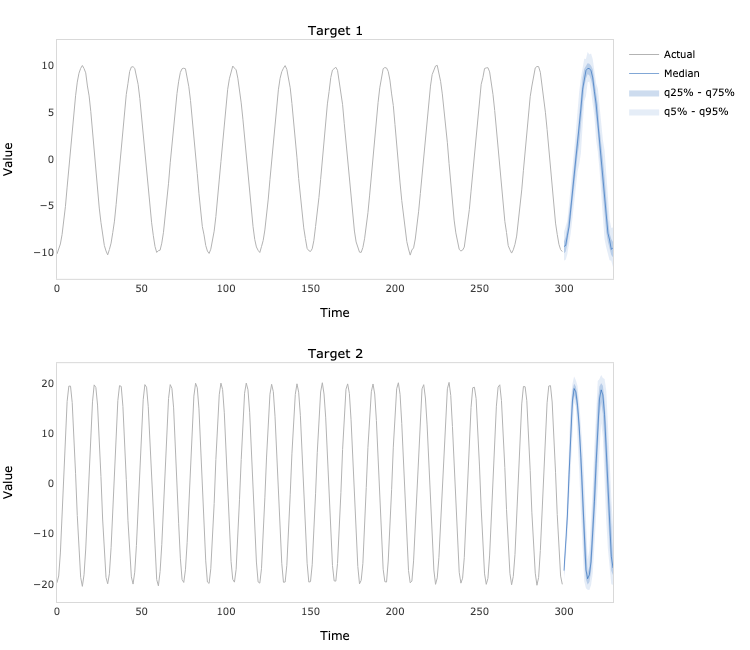
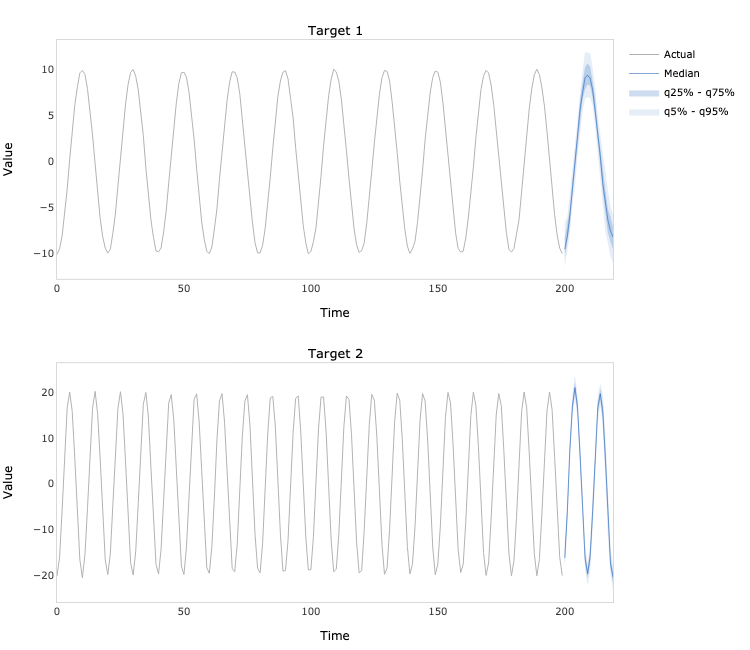
reorganize code

diff --git a/example/example.py b/example/example.py
@@ -2,7 +2,7 @@ import numpy as np
 from probcast_tensorflow.model import ProbCast
 
 # Generate two time series
-N = 300
+N = 200
 t = np.linspace(0, 1, N)
 e = np.random.multivariate_normal(mean=np.zeros(2), cov=np.eye(2), size=N)
 a = 10 * np.cos(2 * np.pi * (10 * t - 0.5)) + 0.1 * e[:, 0]
@@ -12,26 +12,26 @@ y = np.hstack([a.reshape(- 1, 1), b.reshape(- 1, 1)])
 # Fit the model
 model = ProbCast(
     y=y,
-    forecast_length=30,
-    sequence_length=60,
+    forecast_length=20,
+    sequence_length=40,
     quantiles=[0.05, 0.25, 0.5, 0.75, 0.95],
-    generator_gru_units=[64, 32],
-    discriminator_gru_units=[64, 32],
-    generator_dense_units=16,
-    discriminator_dense_units=16,
+    generator_gru_units=[32, 16],
+    discriminator_gru_units=[32, 16],
+    generator_dense_units=8,
+    discriminator_dense_units=8,
     noise_dimension=100,
     noise_dispersion=10,
 )
 
 model.fit(
-    learning_rate=0.01,
-    batch_size=64,
+    learning_rate=0.001,
+    batch_size=32,
     epochs=100,
     verbose=True
 )
 
 # Plot the in-sample predictions
-predictions = model.predict(index=270)
+predictions = model.predict(index=180)
 fig = model.plot_predictions()
 fig.write_image('predictions.png', width=750, height=650)
 

diff --git a/probcast_tensorflow/losses.py b/probcast_tensorflow/losses.py
@@ -8,7 +8,7 @@ def generator_loss(targets, predictions, prob_predictions):
     L1 = tf.keras.losses.MeanAbsoluteError()
     L2 = tf.keras.losses.BinaryCrossentropy()
     
-    return 0.99 * L1(y_true=targets, y_pred=predictions) + 0.01 * L2(y_true=tf.ones_like(prob_predictions), y_pred=prob_predictions)
+    return L1(y_true=targets, y_pred=predictions) + L2(y_true=tf.ones_like(prob_predictions), y_pred=prob_predictions)
 
 
 def discriminator_loss(prob_targets, prob_predictions):

diff --git a/README.MD b/README.MD
@@ -22,7 +22,7 @@ import numpy as np
 from probcast_tensorflow.model import ProbCast
 
 # Generate two time series
-N = 300
+N = 200
 t = np.linspace(0, 1, N)
 e = np.random.multivariate_normal(mean=np.zeros(2), cov=np.eye(2), size=N)
 a = 10 * np.cos(2 * np.pi * (10 * t - 0.5)) + 0.1 * e[:, 0]
@@ -32,27 +32,27 @@ y = np.hstack([a.reshape(- 1, 1), b.reshape(- 1, 1)])
 # Fit the model
 model = ProbCast(
     y=y,
-    forecast_length=30,
-    sequence_length=60,
+    forecast_length=20,
+    sequence_length=40,
     quantiles=[0.05, 0.25, 0.5, 0.75, 0.95],
-    generator_gru_units=[64, 32],
-    discriminator_gru_units=[64, 32],
-    generator_dense_units=16,
-    discriminator_dense_units=16,
+    generator_gru_units=[32, 16],
+    discriminator_gru_units=[32, 16],
+    generator_dense_units=8,
+    discriminator_dense_units=8,
     noise_dimension=100,
     noise_dispersion=10,
 )
 
 model.fit(
-    learning_rate=0.01,
-    batch_size=64,
+    learning_rate=0.001,
+    batch_size=32,
     epochs=100,
     verbose=True
 )
 ```
 ```python
 # Plot the in-sample predictions
-predictions = model.predict(index=270)
+predictions = model.predict(index=180)
 fig = model.plot_predictions()
 fig.write_image('predictions.png', width=750, height=650)
 ```
